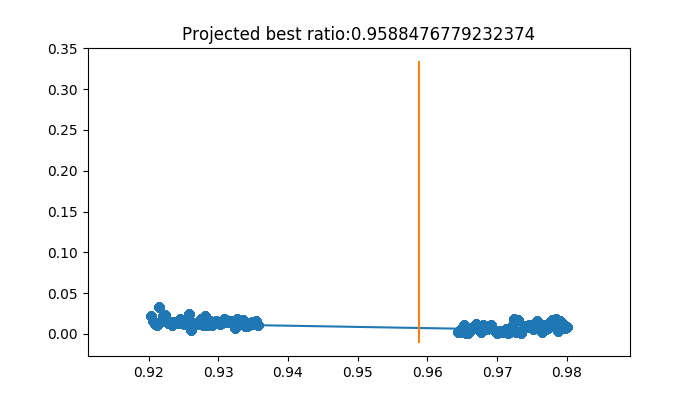
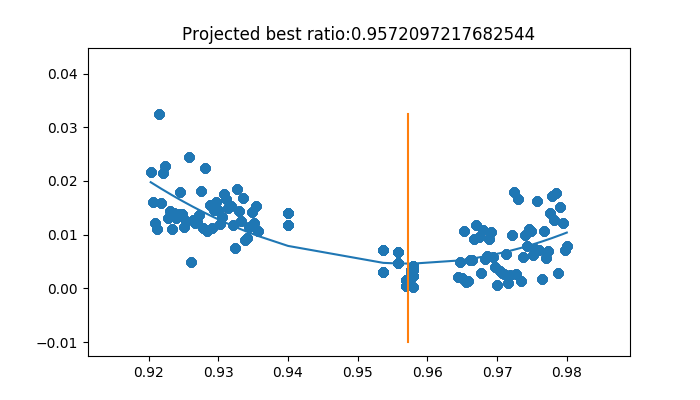
glcoud progress

diff --git a/sim_minimize.py b/sim_minimize.py
@@ -14,8 +14,8 @@ from scipy.optimize import minimize
 logging.basicConfig(filename='./sim.log', level=logging.INFO)
 
 #########################
-start_num_flips = 3000
-flips_step_rate = 500  # increase in flips count between ratio changes
+start_num_flips = 10000
+flips_step_rate = 2000  # increase in flips count between ratio changes
 max_flips_limit = 1e8  # max number of flips for a ratio
 
 start_timestep = 1/1000.
@@ -23,9 +23,9 @@ timestep_rate = 0.00005  # decrease in timestep between ratio changes
 min_timestep_limit = 0.000001  # min timestep
 
 goal_rate = 1/3  # rate of result == edge
-tolerance = 1e-4  # tolerance to stop optimization
+tolerance = 1e-6  # tolerance to stop optimization
 
-lims = [0.95, 1.0]  # ratio bounds from youtube video
+lims = [0.94, 0.97]  # ratio bounds from youtube video
 #1. d = 2*sqrt(2) * height
 #   height = d/(2*sqrt(2)) = r/sqrt(2)
 #   height/r = 1/sqrt(2)
@@ -34,20 +34,21 @@ lims = [0.95, 1.0]  # ratio bounds from youtube video
 #   height/r = 2/sqrt(3)
 #########################
 
+start_guess=0.958
 # read previous results, start at best ratio
-min_loss = 1e6
-with open('results.dat', 'r') as f:
-    line = f.readline()
-    while line:
-        res = eval(line)
-        if np.fabs(res[1]) < min_loss:
-            min_loss = np.fabs(res[1])
-            start_guess = res[0]
-        line = f.readline()
-try:
-    print(f'Starting optimization with ratio: {start_guess}, loss:{min_loss}')
-except:
-    pass
+#min_loss = 1e6
+#with open('results.dat', 'r') as f:
+#    line = f.readline()
+#    while line:
+#        res = eval(line)
+#        if np.fabs(res[1]) < min_loss:
+#            min_loss = np.fabs(res[1])
+#            start_guess = res[0]
+#        line = f.readline()
+#try:
+#    print(f'Starting optimization with ratio: {start_guess}, loss:{min_loss}')
+#except:
+#    pass
 
 
 sim = Sim(
@@ -91,4 +92,4 @@ print(optimize_result)
 
 sim.end()
 
-import show_results
+#import show_results

diff --git a/mod_results.py b/mod_results.py
@@ -51,7 +51,7 @@ plt.plot(ratios, line(ratios))
 best = minimize(line, x0=losses[0][0])
 print(f'projected best: at ratio: {best.x[0]} with loss: {best.fun}')
 
-plt.plot([best.x, best.x], [-0.01, 1/3])
+plt.plot([best.x, best.x], [-0.01, losses[-1][1]])
 plt.title(label=f"Projected best ratio:{best.x[0]}")
 #plt.show()
 fig.savefig('results.png')
